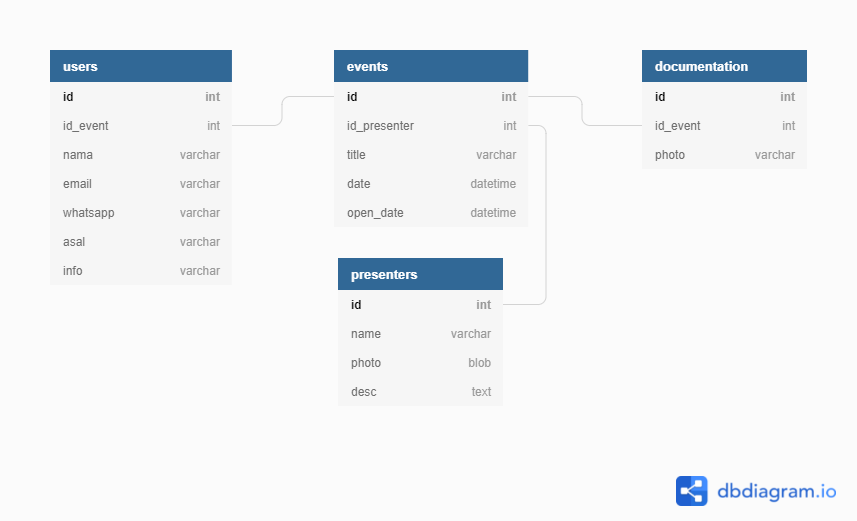
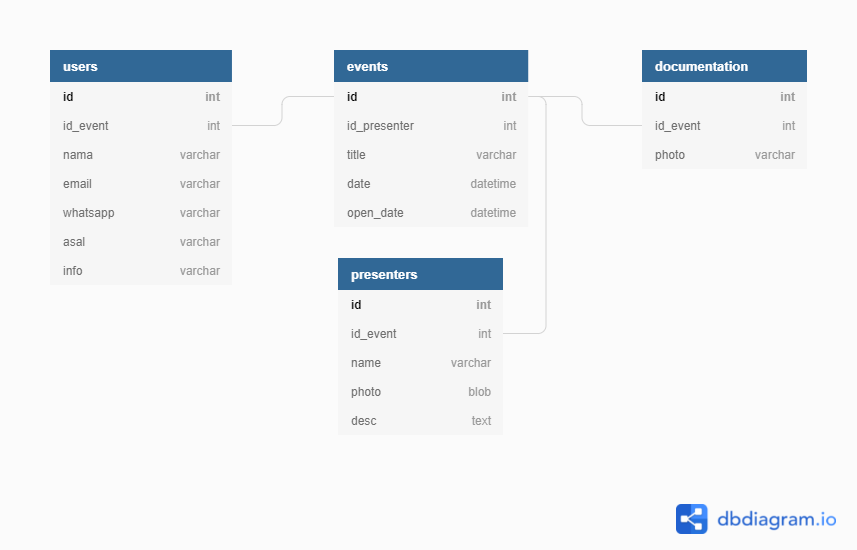
one (presenter) many (event) to one (event) many (presenter)

diff --git a/pages/api/events.js b/pages/api/events.js
@@ -13,9 +13,6 @@ async function getEvents(filter) {
     let res = await supabase.from(tableName).select(`
     id,
     title,
-    presenters (
-        name
-    ),
     date,
     open_date
     `)
@@ -24,9 +21,6 @@ async function getEvents(filter) {
             res = await supabase.from(tableName).select(`
             id,
             title,
-            presenters (
-                name
-            ),
             date,
             open_date
             `).eq("id", parseInt(filter.id))
